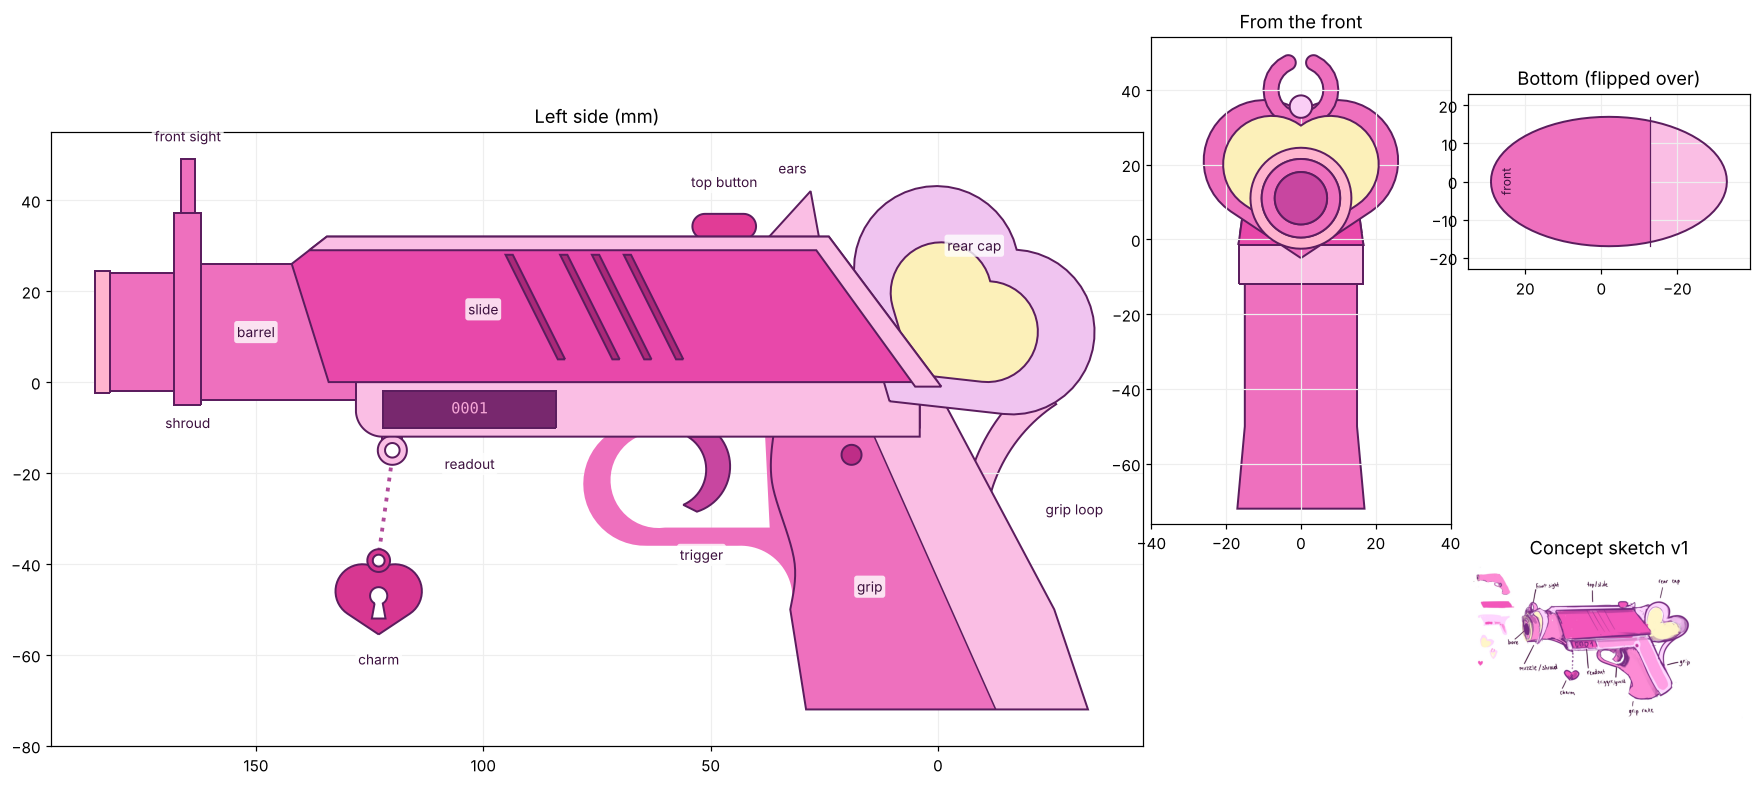
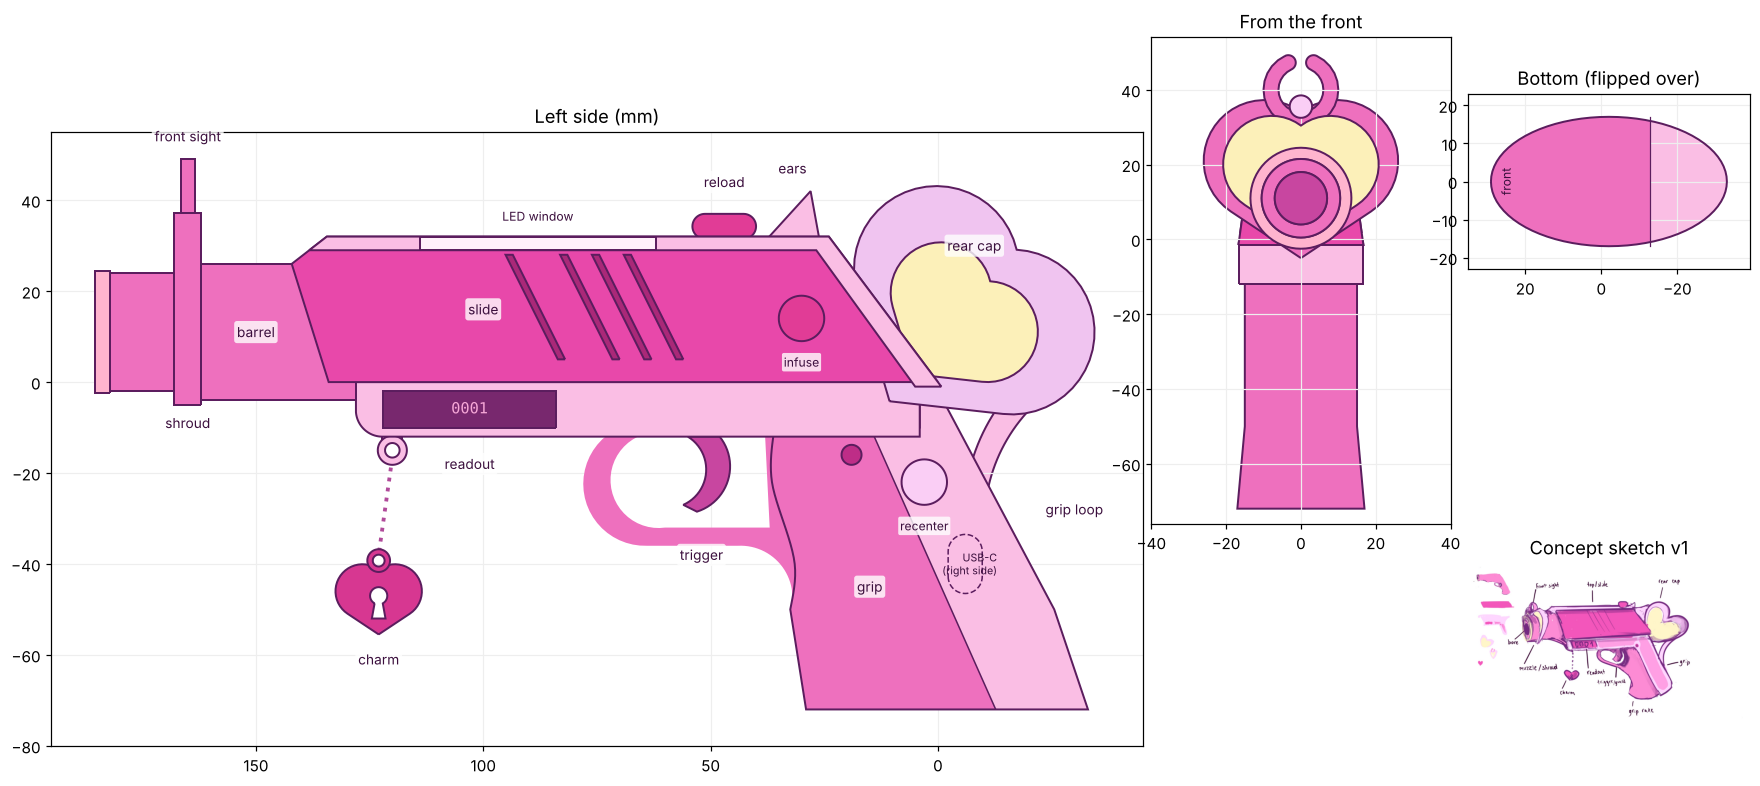
Hollow shell with openings for the electronics; tighter heart leg
From the Gun Controller parts rundown:
- Slide, frame and grip are hollowed (WALL 2.5 mm) into one connected space
  for the QT Py, IMU, wiring and LED stick.
- LED window: opening along the top of the slide between the wings, with a
  translucent window part (print in natural PETG) flush with the top.
- Buttons: reload = the top pill (now with a stem and retaining flange);
  new round Infuse (slide, left) and Recenter (grip, left) caps with flanges;
  matching holes in the shell for 12 mm tactile switches.
- Readout window now cuts through into the hollow (room for a screen later).
- USB-C port on the grip's right side with a recess for the plug.
- Heart leg (grip loop) tucked closer to the grip and slimmer.

Claude-Session: https://claude.ai/code/session_01RDHdy5xfTrUfMAq7GtHoaE

diff --git a/Fusion/Scripts/CelestiaGunMouse/CelestiaGunMouse.py b/Fusion/Scripts/CelestiaGunMouse/CelestiaGunMouse.py
@@ -12,8 +12,12 @@ WHAT YOU GET (one component per part of the sketch)
   Slide (grooves), Muzzle & Shroud (barrel, heart flange, front sight ring,
   muzzle rings), Frame & Grip (one light-pink piece: top strip, cat ears,
   frame, readout window, trigger guard, grip back strip, grip loop, charm
-  eyelet; plus the dark grip panel and oval base), Trigger, Top Button,
+  eyelet; plus the dark grip panel and oval base), Trigger, Reload Button
+  (top), Infuse Button and Recenter Button (left side), LED Window,
   Rear Cap (puffy 3D heart) and Charm (heart padlock).
+  The slide, frame and grip are hollow inside for the electronics, with
+  openings for the LED stick, buttons, readout and a USB-C port on the grip's
+  right side (see "Inside the gun" in DIMENSIONS).
 
 EDITING
   * Thicknesses (side-to-side widths, cut depths) are live Fusion parameters:
@@ -65,9 +69,34 @@ EARS_GAP = 6.0              # gap between the two ears
 TOP_STRIP_H = 3.0           # thickness of the strip along the top
 REAR_STRIP_W = 5.0          # width of the strip down the slanted back
 
-# Top button (pill on top of the slide)
-BUTTON_X0, BUTTON_X1 = 40.0, 54.0
+# Reload button (pill on top of the slide)
+BUTTON_X0, BUTTON_X1 = 40.0, 54.0   # the reload button (pill on top of the slide)
 BUTTON_H = 5.0
+RELOAD_W = 9.0                      # its width, side to side
+
+# ---- Inside the gun (parts from the "Gun Controller - Parts Rundown" doc) ----
+# Measure your parts with calipers when they arrive and adjust these.
+WALL = 2.5                  # shell wall thickness
+CLEAR = 0.25                # gap around moving parts and lids
+SLIDE_CAVITY_TOP = SLIDE_H - TOP_STRIP_H - 2.0   # inside roof of the slide
+FRAME_CAVITY_X = (8.0, 124.0)                     # hollow inside the frame
+GRIP_CAVITY_BOTTOM = -52.0                        # hollow grip goes down to here
+GRIP_CAVITY_HALF_W = 11.0                         # half width of the grip hollow
+# QT Py board (21.7 x 17.8 x 5.7 mm) stands in the grip with its USB-C end at
+# the grip's RIGHT side, so the cable leaves from the side.
+BOARD_CENTER = (-6.0, -40.0)
+USB_HOLE = (7.5, 13.0)            # opening for the plug (front-back, up-down)
+USB_RECESS = (10.0, 15.5, 2.2)    # pocket around it for the plug's grip (w, h, depth)
+# NeoPixel stick (51.1 x 10.2 x 3.2 mm) on top of the slide between the wings,
+# under a translucent window printed in clear/natural PETG.
+LED_WINDOW_X = (62.0, 114.0)
+LED_WINDOW_W = 11.0
+# 12 mm tactile buttons: reload = the pill on top, infuse and recenter are
+# round caps on the left side where your thumb rests.
+INFUSE_POS = (30.0, 14.0)         # on the slide's left side
+RECENTER_POS = (3.0, -22.0)       # on the grip's left side
+SIDE_BUTTON_D = 10.0
+SIDE_BUTTON_PROUD = 1.5           # how far the round caps stick out
 
 # Barrel and muzzle (revolved around a horizontal axis)
 BORE_AXIS_Y = 11.0          # height of the barrel centreline
@@ -142,10 +171,10 @@ INSET_SCALE = 0.8           # cream inner heart size on the flange
 
 # Grip loop: tapered band from the heart down into the grip back piece
 INCLUDE_GRIP_LOOP = True
-LOOP_START = (-24.0, -2.0)  # inside the heart's rear lobe
-LOOP_MID = (-13.0, -14.0)   # bows in toward the grip (bigger first number = more)
+LOOP_START = (-20.0, -2.0)  # inside the heart's rear lobe
+LOOP_MID = (-11.5, -14.0)   # bows in toward the grip (bigger first number = more)
 LOOP_END = (-8.0, -30.0)    # well inside the back of the grip, so it fuses on
-LOOP_T_START, LOOP_T_END = 7.0, 5.0
+LOOP_T_START, LOOP_T_END = 6.0, 4.5
 
 # Charm (heart padlock) hanging from an eyelet at the front of the frame
 EYELET_CENTER = (120.0, -15.0)
@@ -165,16 +194,17 @@ LIVE_PARAMS = [
     ('grip_width', 30.0, 'Grip panel (dark pink) thickness, side to side'),
     ('guard_width', 12.0, 'Trigger guard thickness'),
     ('trigger_width', 7.0, 'Trigger blade thickness'),
-    ('button_width', 9.0, 'Top button width'),
     ('flange_width', 6.0, 'Heart flange (shroud) thickness'),
     ('inset_proud', 1.5, 'How far the cream heart insets stand out'),
-    ('loop_width', 10.0, 'Grip loop thickness'),
+    ('loop_width', 8.0, 'Grip loop thickness'),
     ('sight_thickness', 3.0, 'Front sight ring thickness'),
     ('charm_thickness', 4.0, 'Heart charm thickness'),
     ('eyelet_thickness', 3.5, 'Charm eyelet thickness'),
     ('serration_depth', 0.8, 'Depth of the slide grooves'),
-    ('readout_depth', 1.5, 'Depth of the readout window recess'),
+    ('readout_depth', 4.0, 'Readout window cut (deeper than the wall = open to the hollow inside)'),
 ]
+
+P_GRIP_W = dict((n, v) for n, v, _ in LIVE_PARAMS)['grip_width']
 
 # Colours from the sketch (R, G, B), by body name
 CREAM = (252, 240, 185)
@@ -190,7 +220,10 @@ BODY_COLORS = {
     'Grip panel': GRIP_PINK,
     'Grip pin': (190, 45, 135),
     'Trigger': (200, 70, 160),
-    'Top button': (225, 60, 150),
+    'Reload button': (225, 60, 150),
+    'Infuse button': (225, 60, 150),
+    'Recenter button': (250, 206, 245),
+    'LED window': (255, 240, 250),
     'Heart cap': (240, 196, 240),
     'Heart inset': CREAM,
     'Charm': (215, 55, 145),
@@ -299,6 +332,38 @@ def arc_band(p0, pm, p1, t_start, t_end):
     o = [off(p, t) for p, t in zip((p0, pm, p1), ts)]
     i = [off(p, -t) for p, t in zip((p0, pm, p1), ts)]
     return [('arc', o[0], o[1], o[2]), ('line', o[2], i[2]), ('arc', i[2], i[1], i[0]), ('line', i[0], o[0])]
+
+
+def slide_cavity_outline():
+    """Side view of the hollow inside the slide (open at the bottom into the frame)."""
+    top = SLIDE_CAVITY_TOP
+    back = REAR_STRIP_W + 2.0           # stays clear of the light-pink back band
+    return polygon([(slide_rear_x(-0.5) + back, -0.5), (BARREL_X0, -0.5),
+                    (BARREL_X0, top), (slide_rear_x(top) + back, top)])
+
+
+def slide_cavity_section():
+    lo, hi = -1.0, SLIDE_CAVITY_TOP + 1.0
+    return polygon([(-(slide_half_width(lo) - WALL), lo), (slide_half_width(lo) - WALL, lo),
+                    (slide_half_width(hi) - WALL, hi), (-(slide_half_width(hi) - WALL), hi)])
+
+
+def grip_cavity_outline():
+    """Side view of the hollow inside the grip (opens up into the frame)."""
+    top, bot = -FRAME_H + 4.0, GRIP_CAVITY_BOTTOM
+    return polygon([(spine_rear_x(top) + 3.0, top), (PANEL_FRONT[0][0] - 5.5, top),
+                    (PANEL_FRONT[2][0] - 3.0, PANEL_FRONT[2][1] - 5.0), (PANEL_FRONT[3][0] - 5.0, bot),
+                    (spine_rear_x(bot) + 3.0, bot)])
+
+
+def stadium(cx, cy, w, h):
+    """Rounded slot w wide (front-back) and h tall (h > w)."""
+    r = w / 2.0
+    k = h / 2.0 - r
+    return [('line', (cx + r, cy - k), (cx + r, cy + k)),
+            ('arc', (cx + r, cy + k), (cx, cy + h / 2.0), (cx - r, cy + k)),
+            ('line', (cx - r, cy + k), (cx - r, cy - k)),
+            ('arc', (cx - r, cy - k), (cx, cy - h / 2.0), (cx + r, cy - k))]
 
 
 def slide_points():
@@ -855,7 +920,59 @@ def build_slide(root):
             extrude_sym(comp, all_profiles(sk), 'serration_depth * 2', CUT, participants=[slide])
         except Exception:
             _skipped.append('Slide: {} grooves skipped'.format(label))
+
+    # Hollow inside (room for the IMU, wiring and LED stick)
+    try:
+        sk = side_sketch(comp, 'Slide hollow', [slide_cavity_outline()])
+        cav = extrude_sym(comp, pick_profile(sk), SLIDE_BOTTOM_W + 10.0, NEW, name='Slide hollow').bodies.item(0)
+        trim_to_section(comp, cav, slide_cavity_section(), 'Slide hollow')
+        combine_cut(comp, body_named(comp, 'Slide'), [body_named(comp, 'Slide hollow')])
+    except Exception:
+        _skipped.append('Slide: could not hollow it out')
+    cut_top_openings(comp, body_named(comp, 'Slide'))
+    cut_side_hole(comp, body_named(comp, 'Slide'), INFUSE_POS, slide_half_width(INFUSE_POS[1]), 'Infuse hole')
     return comp
+
+
+def combine_cut(comp, target, tools, keep=False):
+    coll = adsk.core.ObjectCollection.create()
+    for t in tools:
+        coll.add(t)
+    inp = comp.features.combineFeatures.createInput(target, coll)
+    inp.operation = adsk.fusion.FeatureOperations.CutFeatureOperation
+    inp.isKeepToolBodies = keep
+    comp.features.combineFeatures.add(inp)
+
+
+def xy_plane(comp, z):
+    if abs(z) < 1e-9:
+        return comp.xYConstructionPlane
+    return offset_plane(comp, comp.xYConstructionPlane, z, 'z', z)
+
+
+def cut_top_openings(comp, body):
+    """The LED window and the reload button slot through the top."""
+    y0, y1 = SLIDE_CAVITY_TOP - 0.5, SLIDE_H + 1.0
+    for name, x0, x1, w in (('LED window opening', LED_WINDOW_X[0], LED_WINDOW_X[1], LED_WINDOW_W),
+                            ('Reload slot', BUTTON_X0 - CLEAR, BUTTON_X1 + CLEAR,
+                             RELOAD_W + 2 * CLEAR)):
+        try:
+            sk = side_sketch(comp, name, [polygon([(x0, y0), (x1, y0), (x1, y1), (x0, y1)])])
+            extrude_sym(comp, pick_profile(sk), w, CUT, participants=[body])
+        except Exception:
+            _skipped.append('{}: {} skipped'.format(comp.name, name))
+
+
+def cut_side_hole(comp, bodies_to_cut, pos, z_outer, name, r=None):
+    """Round hole through the LEFT wall (+Z) at side-view position pos."""
+    r = r or (SIDE_BUTTON_D / 2.0 + CLEAR)
+    if not isinstance(bodies_to_cut, list):
+        bodies_to_cut = [bodies_to_cut]
+    try:
+        sk = side_sketch(comp, name, [[('circle', pos, r)]], plane=xy_plane(comp, z_outer - WALL / 2.0))
+        extrude_sym(comp, pick_profile(sk), WALL + 4.0, CUT, participants=bodies_to_cut)
+    except Exception:
+        _skipped.append('{}: {} skipped'.format(comp.name, name))
 
 
 def trim_to_section(comp, body, section_loop, label):
@@ -980,7 +1097,43 @@ def build_frame(root):
                                if b.name not in ('Frame', 'Grip panel', 'Grip pin')])
     frame = body_named(comp, 'Frame')
     frame.name = 'Frame & Grip'
+    hollow_frame_and_grip(comp)
     return comp
+
+
+def hollow_frame_and_grip(comp):
+    """Hollow the frame and grip (one connected space with the slide's), and
+    cut the top openings, the recenter hole and the USB-C port."""
+    frame, panel = body_named(comp, 'Frame & Grip'), body_named(comp, 'Grip panel')
+    try:
+        x0, x1 = FRAME_CAVITY_X
+        hw = FRAME_W / 2.0 - WALL
+        sk = side_sketch(comp, 'Frame hollow', [polygon([(x0, -FRAME_H + 2.0), (x1, -FRAME_H + 2.0),
+                                                         (x1, 0.5), (x0, 0.5)])])
+        extrude_sym(comp, pick_profile(sk), 2.0 * hw, NEW, name='Frame hollow')
+        sk = side_sketch(comp, 'Grip hollow', [grip_cavity_outline()])
+        extrude_sym(comp, pick_profile(sk), 2.0 * GRIP_CAVITY_HALF_W, NEW, name='Grip hollow')
+        tools = [body_named(comp, 'Frame hollow'), body_named(comp, 'Grip hollow')]
+        combine_cut(comp, panel, tools, keep=True)
+        combine_cut(comp, body_named(comp, 'Frame & Grip'),
+                    [body_named(comp, 'Frame hollow'), body_named(comp, 'Grip hollow')])
+    except Exception:
+        _skipped.append('Frame & Grip: could not hollow it out')
+    frame, panel = body_named(comp, 'Frame & Grip'), body_named(comp, 'Grip panel')
+    cut_top_openings(comp, frame)
+    cut_side_hole(comp, [frame, panel], RECENTER_POS, P_GRIP_W / 2.0, 'Recenter hole')
+
+    # USB-C port on the grip's right side (-Z), with a pocket for the plug
+    bx, by = BOARD_CENTER
+    zr = -P_GRIP_W / 2.0
+    for name, w, h, depth in (('USB-C recess', USB_RECESS[0], USB_RECESS[1], USB_RECESS[2]),
+                              ('USB-C hole', USB_HOLE[0], USB_HOLE[1], 8.0)):
+        try:
+            sk = side_sketch(comp, name, [stadium(bx, by, w, h)], plane=xy_plane(comp, zr))
+            extrude_sym(comp, pick_profile(sk), 2.0 * depth, CUT,
+                        participants=[body_named(comp, 'Frame & Grip'), body_named(comp, 'Grip panel')])
+        except Exception:
+            _skipped.append('Frame & Grip: {} skipped'.format(name))
 
 
 def split_grip(comp):
@@ -1062,10 +1215,60 @@ def build_trigger(root):
 
 
 def build_button(root):
-    comp = new_component(root, 'Top Button')
+    """Reload button: the pill on top, with a stem down through its slot and
+    a flange underneath that stops it falling out. The 12 mm tactile switch
+    sits under the flange."""
+    comp = new_component(root, 'Reload Button')
     sk = side_sketch(comp, 'Button profile', [button_outline()])
-    body = extrude_sym(comp, pick_profile(sk), 'button_width', NEW, name='Top button').bodies.item(0)
-    fillet(comp, body, 2.0, 'Top button', edge_filter=flat_in('z'))
+    body = extrude_sym(comp, pick_profile(sk), RELOAD_W, NEW, name='Reload button').bodies.item(0)
+    fillet(comp, body, 2.0, 'Reload button', edge_filter=flat_in('z'))
+    y_in = SLIDE_CAVITY_TOP
+    sk = side_sketch(comp, 'Reload stem', [polygon([(BUTTON_X0, y_in), (BUTTON_X1, y_in),
+                                                    (BUTTON_X1, SLIDE_H), (BUTTON_X0, SLIDE_H)])])
+    extrude_sym(comp, pick_profile(sk), RELOAD_W, JOIN, participants=[body_named(comp, 'Reload button')])
+    sk = side_sketch(comp, 'Reload flange', [polygon([(BUTTON_X0 - 1.5, y_in - 1.0), (BUTTON_X1 + 1.5, y_in - 1.0),
+                                                      (BUTTON_X1 + 1.5, y_in), (BUTTON_X0 - 1.5, y_in)])])
+    extrude_sym(comp, pick_profile(sk), RELOAD_W + 3.0, JOIN, participants=[body_named(comp, 'Reload button')])
+    return comp
+
+
+def build_side_button(root, comp_name, body_name, pos, z_outer, z_in):
+    """Round button cap through the left wall (outer face at z_outer, inner
+    face at z_in), with a flange 1 mm clear of the inner face."""
+    comp = new_component(root, comp_name)
+    r = SIDE_BUTTON_D / 2.0
+    z0, z1 = z_in - 2.0, z_outer + SIDE_BUTTON_PROUD
+    sk = side_sketch(comp, body_name + ' cap', [[('circle', pos, r)]], plane=xy_plane(comp, (z0 + z1) / 2.0))
+    extrude_sym(comp, pick_profile(sk), z1 - z0, NEW, name=body_name)
+    sk = side_sketch(comp, body_name + ' flange', [[('circle', pos, r + 1.25)]],
+                     plane=xy_plane(comp, z_in - 1.5))
+    extrude_sym(comp, pick_profile(sk), 1.0, JOIN, participants=[body_named(comp, body_name)])
+    fillet(comp, body_named(comp, body_name), 1.0, body_name,
+           edge_filter=lambda e: flat_in('z')(e) and e.boundingBox.minPoint.z * 10 > z_outer)
+    return comp
+
+
+def build_infuse(root):
+    # the slide's walls lean in toward the top, so measure the inner face
+    # at the top of the button
+    top_y = INFUSE_POS[1] + SIDE_BUTTON_D / 2.0 + 1.25
+    return build_side_button(root, 'Infuse Button', 'Infuse button', INFUSE_POS,
+                             slide_half_width(INFUSE_POS[1]), slide_half_width(top_y) - WALL)
+
+
+def build_recenter(root):
+    return build_side_button(root, 'Recenter Button', 'Recenter button', RECENTER_POS, P_GRIP_W / 2.0,
+                             GRIP_CAVITY_HALF_W)
+
+
+def build_led_window(root):
+    """Translucent window over the LED stick, flush with the top."""
+    comp = new_component(root, 'LED Window')
+    x0, x1 = LED_WINDOW_X[0] + CLEAR, LED_WINDOW_X[1] - CLEAR
+    sk = side_sketch(comp, 'LED window', [polygon([(x0, SLIDE_H - TOP_STRIP_H), (x1, SLIDE_H - TOP_STRIP_H),
+                                                   (x1, SLIDE_H), (x0, SLIDE_H)])])
+    body = extrude_sym(comp, pick_profile(sk), LED_WINDOW_W - 2 * CLEAR, NEW, name='LED window').bodies.item(0)
+    fillet(comp, body, 0.8, 'LED window', edge_filter=lambda e: e.boundingBox.minPoint.y * 10 > SLIDE_H - 0.1)
     return comp
 
 
@@ -1145,7 +1348,10 @@ COMPONENT_COLORS = {
     'Muzzle & Shroud': BODY_COLORS['Barrel'],
     'Frame & Grip': BODY_COLORS['Frame & Grip'],
     'Trigger': BODY_COLORS['Trigger'],
-    'Top Button': BODY_COLORS['Top button'],
+    'Reload Button': BODY_COLORS['Reload button'],
+    'Infuse Button': BODY_COLORS['Infuse button'],
+    'Recenter Button': BODY_COLORS['Recenter button'],
+    'LED Window': BODY_COLORS['LED window'],
     'Rear Cap (Heart)': BODY_COLORS['Heart cap'],
     'Charm': BODY_COLORS['Charm'],
 }
@@ -1211,7 +1417,9 @@ def run(context):
         comps = []
         for label, builder in (('Slide', build_slide), ('Muzzle & Shroud', build_muzzle),
                                ('Frame & Grip', build_frame),
-                               ('Trigger', build_trigger), ('Top Button', build_button),
+                               ('Trigger', build_trigger), ('Reload Button', build_button),
+                               ('Infuse Button', build_infuse), ('Recenter Button', build_recenter),
+                               ('LED Window', build_led_window),
                                ('Rear Cap (Heart)', build_rear_cap), ('Charm', build_charm)):
             try:
                 comps.append(builder(root))

diff --git a/Fusion/preview/preview_side.py b/Fusion/preview/preview_side.py
@@ -179,7 +179,18 @@ cream = [(seg[0],) + tuple((pc[0] + 0.72 * (q[0] - pc[0]), pc[1] + 0.72 * (q[1] 
          for seg in cream]
 draw(ax, [cream], C['Heart inset'], 5.1)
 draw(ax, [cgm.ears_outline()], C['Frame & Grip'], 5.5)
-draw(ax, [cgm.button_outline()], C['Top button'], 5.5)
+draw(ax, [cgm.button_outline()], C['Reload button'], 5.5)
+x0, x1 = cgm.LED_WINDOW_X
+draw(ax, [rect(x0, cgm.SLIDE_H - cgm.TOP_STRIP_H, x1, cgm.SLIDE_H)], C['LED window'], 6.7)
+ax.text((x0 + x1) / 2, cgm.SLIDE_H + 3.5, 'LED window', ha='center', fontsize=8, color='#3b0f3d', zorder=20)
+for pos, key, lab in ((cgm.INFUSE_POS, 'Infuse button', 'infuse'), (cgm.RECENTER_POS, 'Recenter button', 'recenter')):
+    draw(ax, [[('circle', pos, cgm.SIDE_BUTTON_D / 2)]], C[key], 7)
+    ax.text(pos[0], pos[1] - cgm.SIDE_BUTTON_D / 2 - 3, lab, ha='center', va='top', fontsize=8,
+            color='#3b0f3d', zorder=20, bbox=dict(boxstyle='round,pad=0.15', fc='white', ec='none', alpha=0.8))
+ax.add_patch(PathPatch(compound([cgm.stadium(cgm.BOARD_CENTER[0], cgm.BOARD_CENTER[1], *cgm.USB_HOLE)]),
+                       fill=False, edgecolor='#5b1d5e', lw=1.0, ls='--', zorder=7))
+ax.text(cgm.BOARD_CENTER[0] - 7, cgm.BOARD_CENTER[1], 'USB-C\n(right side)', ha='right', va='center',
+        fontsize=7, color='#3b0f3d', zorder=20)
 draw(ax, [cgm.slide_outline()], C['Slide'], 6)
 for s in cgm.serration_outlines():
     draw(ax, [s], (170, 40, 120), 6.5)
@@ -194,7 +205,7 @@ labels = {
     'slide': (100, 16), 'barrel': (150, y), 'shroud': (cgm.FLANGE_X + 3, f_bot - 4),
     'front sight': (cgm.FLANGE_X + 3, sight_top + 5), 'rear cap': (-8, 30),
     'grip loop': (-30, -28), 'grip': (15, -45), 'trigger': (52, -38), 'readout': (103, -18),
-    'charm': (cgm.CHARM_CENTER[0], cgm.CHARM_CENTER[1] - 15), 'top button': (47, 44),
+    'charm': (cgm.CHARM_CENTER[0], cgm.CHARM_CENTER[1] - 15), 'reload': (47, 44),
     'ears': (32, 47),
 }
 for text, (lx, ly) in labels.items():
